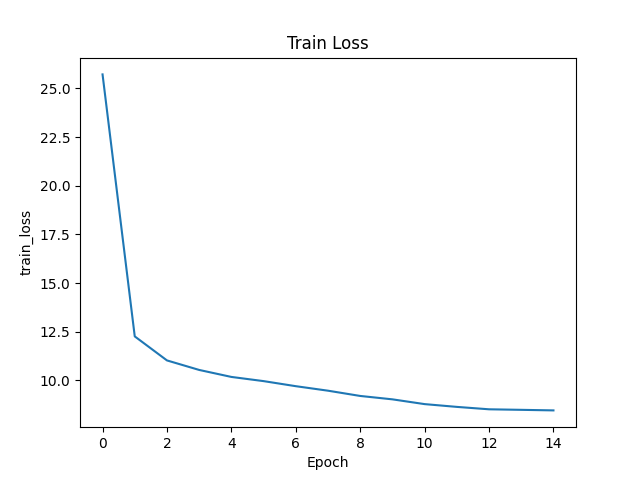
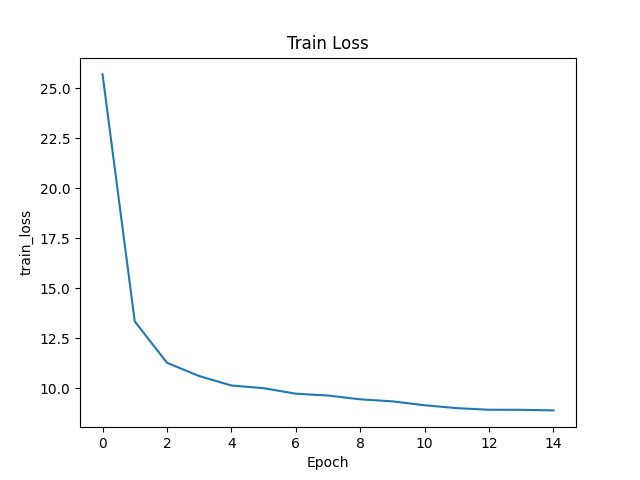
将非舌体区域置零 mlou 86%

diff --git a/predict.py b/predict.py
@@ -22,6 +22,7 @@ from skimage import transform, io, segmentation
 from segment.yolox import YOLOX
 import random
 import warnings
+import time
 
 # 永久性地忽略指定类型的警告
 warnings.filterwarnings("ignore", category=UserWarning)
@@ -32,7 +33,8 @@ checkpoint = './logs/best.pth'  # 使用训练好的模型
 # checkpoint = './pretrained_model/sam.pth'  # 使用预训练模型
 device = 'cuda:0'
 path_out='./data/test_out/'
-segment=YOLOX()
+# segment=YOLOX()  # 推理阶段不使用YOLOX，注释掉以释放GPU显存
+ENCODER_BATCH_SIZE = 8  # image_encoder 批量推理的 batch size，显存不够就改小
 ##############################################################################################################
 def get_bbox_from_mask(mask):
     '''Returns a bounding box from a mask'''    
@@ -64,75 +66,112 @@ best_iou=0
 test_names = sorted(os.listdir(ts_img_path))
 
 sam_model = sam_model_registry[model_type](checkpoint=checkpoint).to(device)
-#################################
-# prune_threshold =0.005
-# for param in sam_model.image_encoder.parameters():    
-#     param.data[torch.abs(param.data) < prune_threshold] = 0
 sam_model.eval()
-#################################
+sam_transform = ResizeLongestSide(sam_model.image_encoder.img_size)
+
 val_gts=[]
 val_preds=[]
-for f in os.listdir(ts_img_path):   
-    with torch.no_grad():             
-        # image_data = io.imread(join(ts_img_path, f))
-        # Use PIL to load and handle EXIF orientation
-        try:
-            pil_image = Image.open(join(ts_img_path, f))
-            pil_image = ImageOps.exif_transpose(pil_image)
-            image_data = np.array(pil_image)
-        except Exception as e:
-            print(f"Error loading image with PIL: {e}, falling back to skimage")
-            image_data = np.array(Image.open(join(ts_img_path, f)))
-    
-        print(image_data.shape)
 
-        image_data = transform.resize(image_data, (1024, 1024), order=3, preserve_range=True, mode='constant', anti_aliasing=True)  # type is np.ndarray dtype is float64
+t_start = time.time()
 
-        if image_data.shape[-1] > 3 and len(image_data.shape) == 3:
-            image_data = image_data[:, :, :3]
-        if len(image_data.shape) == 2:
-            image_data = np.repeat(image_data[:, :, None], 3, axis=-1)
-        
-        lower_bound, upper_bound = np.percentile(image_data, 0.5), np.percentile(image_data, 99.5)
-        image_data_pre = np.clip(image_data, lower_bound, upper_bound)
-        image_data_pre = (image_data_pre - np.min(image_data_pre)) / (np.max(image_data_pre) - np.min(image_data_pre)) * 255.0  # normalize this image to 0-255 range
-        image_data_pre[image_data == 0] = 0 # there the image_data_pre is np type
-        
-        image_data_pre = np.uint8(image_data_pre)
+# ============ 第一阶段：预处理所有图片 & 批量 image_encoder 推理 ============
+all_filenames = []
+all_image_data_pre = []   # 预处理后的 uint8 图
+all_input_tensors = []     # 送入 encoder 的 tensor
+all_tongue_masks = []      # tongue mask tensor
 
-        
-        # sam 模型的输入尺寸是1024x1024，所以我们需要将输入图像调整为这个尺寸。ResizeLongestSide会保持图像的宽高比，并将较长的一边调整为指定的尺寸，同时较短的一边会自动调整以保持比例。
-        # print("SAM模型的 img_size 是:", sam_model.image_encoder.img_size) 
-        sam_transform = ResizeLongestSide(sam_model.image_encoder.img_size)
-        resize_img = sam_transform.apply_image(image_data_pre)
-        resize_img_tensor = torch.as_tensor(resize_img.transpose(2, 0, 1)).to(device)
-        input_image = sam_model.preprocess(resize_img_tensor[None, :, :, :])        
-        ts_img_embedding = sam_model.image_encoder(input_image)      
+print(f"[阶段1] 预处理 {len(test_names)} 张图片...")
+for f in tqdm(test_names, desc="预处理"):
+    try:
+        pil_image = Image.open(join(ts_img_path, f))
+        pil_image = ImageOps.exif_transpose(pil_image)
+        image_data = np.array(pil_image)
+    except Exception as e:
+        print(f"Error loading image with PIL: {e}, falling back to skimage")
+        image_data = np.array(Image.open(join(ts_img_path, f)))
 
-        img = image_data_pre
-        # boxes = segment.get_prompt(img)  # 这里要关注一下sam 接受多少种不同的 prompt 我想用mask看能不能传进去
+    # 使用 cv2.resize 替代 skimage.transform.resize（快 100x+）
+    image_data = cv2.resize(image_data, (1024, 1024), interpolation=cv2.INTER_CUBIC).astype(np.float64)
+
+    if image_data.shape[-1] > 3 and len(image_data.shape) == 3:
+        image_data = image_data[:, :, :3]
+    if len(image_data.shape) == 2:
+        image_data = np.repeat(image_data[:, :, None], 3, axis=-1)
+
+    lower_bound, upper_bound = np.percentile(image_data, 0.5), np.percentile(image_data, 99.5)
+    image_data_pre = np.clip(image_data, lower_bound, upper_bound)
+    image_data_pre = (image_data_pre - np.min(image_data_pre)) / (np.max(image_data_pre) - np.min(image_data_pre)) * 255.0
+    image_data_pre[image_data == 0] = 0
+    image_data_pre = np.uint8(image_data_pre)
+
+    tongue_mask = np.array(ImageOps.exif_transpose(Image.open("../舌苔抑郁症/mask/" + os.path.splitext(f)[0] + ".png")))
+
+    tongue_mask = cv2.resize(tongue_mask, (1024, 1024), interpolation=cv2.INTER_NEAREST)
+
+    # 调试：验证 mask 的实际值分布（只打印第一张）
+    if f == test_names[0]:
+        print(f"[DEBUG] tongue_mask shape={tongue_mask.shape}, dtype={tongue_mask.dtype}")
+        print(f"[DEBUG] tongue_mask unique values: {np.unique(tongue_mask)}")
+        print(f"[DEBUG] tongue_mask==0 的像素数: {(tongue_mask==0).sum()}, 非零像素数: {(tongue_mask!=0).sum()}")
+
+    all_image_data_pre.append(image_data_pre.copy())  # 后续可视化用原始预处理图
+
+    image_data_pre[tongue_mask == 0] = [0, 0, 0] # 将非舌头区域像素值设为0，突出舌头部分
+
+    tongue_mask = (tongue_mask > 0).astype(np.float32)
+
+    resize_img = sam_transform.apply_image(image_data_pre)
+    resize_img_tensor = torch.as_tensor(resize_img.transpose(2, 0, 1))
+    input_image = sam_model.preprocess(resize_img_tensor[None, :, :, :].to(device)).cpu()  # 预处理后移回 CPU，避免 673 张占爆显存
+
+    tongue_mask_256 = cv2.resize(tongue_mask, (256, 256), interpolation=cv2.INTER_NEAREST)
+    mask_torch = torch.as_tensor(tongue_mask_256[None, None, :, :], dtype=torch.float)  # 存 CPU 上
+
+    all_filenames.append(f)
+    all_input_tensors.append(input_image)
+    all_tongue_masks.append(mask_torch)
+
+# 批量通过 image_encoder（最耗时的部分）  这一部分被AI修改了， 酌情保留
+all_embeddings = []
+print(f"[阶段2] 批量 image_encoder 推理 (batch_size={ENCODER_BATCH_SIZE}, FP16)...")
+with torch.no_grad(), torch.cuda.amp.autocast():  # FP16 半精度：速度翻倍 + 显存减半
+    for i in tqdm(range(0, len(all_input_tensors), ENCODER_BATCH_SIZE), desc="Encoder"):
+        batch = torch.cat(all_input_tensors[i:i+ENCODER_BATCH_SIZE], dim=0).to(device)
+        embeddings = sam_model.image_encoder(batch)
+        # 拆分回单张存储，放 CPU 上避免 673 个 embedding 撑爆显存
+        for j in range(embeddings.shape[0]):
+            all_embeddings.append(embeddings[j:j+1].float().cpu())  # 转回 FP32 存 CPU
+        del batch, embeddings
+        torch.cuda.empty_cache()
+
+# 释放 input_tensors，节省显存
+del all_input_tensors
+torch.cuda.empty_cache()
+
+# ============ 第二阶段：逐张 prompt_encoder + mask_decoder + 可视化保存 ============
+print(f"[阶段3] Decoder + 保存结果...")
+with torch.no_grad():
+    for idx in tqdm(range(len(all_filenames)), desc="Decoder+保存"):
+        f = all_filenames[idx]
+        ts_img_embedding = all_embeddings[idx]
+        mask_torch = all_tongue_masks[idx]
+        img = all_image_data_pre[idx]
+
         boxes = None
-        
-        tongue_mask = np.array(ImageOps.exif_transpose(Image.open("../舌苔抑郁症/coating_mask/" + os.path.splitext(f)[0] + ".png")))  
-
-        tongue_mask = (np.array(tongue_mask) > 0).astype(np.float32)  # 二值化  变成 0和1的形式，舌头部分为1，其他部分为0  主要是为了适配sam模型的输入要求，sam模型的prompt_encoder需要一个二值化的mask作为输入， 而且不宜是0 255 因为太大了
-        tongue_mask_256 = cv2.resize(tongue_mask, (256, 256), interpolation=cv2.INTER_NEAREST)
-        mask_torch = torch.as_tensor(tongue_mask_256[None, None, :, :], dtype=torch.float, device=device)
-
 
         if boxes is not None:
-            sam_trans = ResizeLongestSide(sam_model.image_encoder.img_size)                   
-            box = sam_trans.apply_boxes(boxes, (1024,1024))                                 # sam_trans会自动调整box的坐标以适应sam模型的输入尺寸               
-            box_torch = torch.as_tensor(box, dtype=torch.float, device=device)            
-        else:            
-            box_torch = None     
+            sam_trans = ResizeLongestSide(sam_model.image_encoder.img_size)
+            box = sam_trans.apply_boxes(boxes, (1024,1024))
+            box_torch = torch.as_tensor(box, dtype=torch.float, device=device)
+        else:
+            box_torch = None
 
         sparse_embeddings, dense_embeddings = sam_model.prompt_encoder(
             points=None,
-            boxes=box_torch, # box_torch是None
-            masks=mask_torch,
+            boxes=box_torch,
+            masks=mask_torch.to(device),
         )
-        
+
         # 使用Mask_Decoder生成分割结果
         medsam_seg_prob, _ = sam_model.mask_decoder(
             image_embeddings=ts_img_embedding.to(device),
@@ -140,31 +179,33 @@ for f in os.listdir(ts_img_path):
             sparse_prompt_embeddings=sparse_embeddings,
             dense_prompt_embeddings=dense_embeddings,
             multimask_output=False,
-        )                        
-        medsam_seg_prob =medsam_seg_prob.cpu().detach().numpy().squeeze()        
+        )
+        medsam_seg_prob = medsam_seg_prob.cpu().detach().numpy().squeeze()
         medsam_seg = (medsam_seg_prob > 0).astype(np.uint8)  # logit > 0 等价于 sigmoid(logit) > 0.5
-        
-        medsam_seg=cv2.resize(medsam_seg,(1024,1024),interpolation=cv2.INTER_NEAREST)       
-        
+
+        medsam_seg = cv2.resize(medsam_seg, (1024, 1024), interpolation=cv2.INTER_NEAREST)
+
         ####################################
         medsam_seg[medsam_seg > 0] = 255
-        medsam_img = Image.fromarray(medsam_seg) # 所有输出的图片的位数都是8位的png图像
+        medsam_img = Image.fromarray(medsam_seg)
         medsam_img.save(os.path.join(path_out, os.path.splitext(f)[0] + '.png'))
 
         ####################################
         # 后面这一部分代码就是为了在原图上叠加边界框和分割结果的可视化，输出到test_out文件夹中
         pred = cv2.Canny(medsam_seg, 100, 200)
-        
 
-        for i in range(pred.shape[0]):
-            for j in range(pred.shape[1]):
-                if pred[i, j] != 0:
-                    img[max(i - 1, 0):min(i + 2, 1024), max(j - 1, 0):min(j + 2, 1024), :] = [0, 0, 255]
+        # 向量化边缘绘制（替代逐像素 Python for 循环，速度提升 100x+）
+        edge_ys, edge_xs = np.where(pred != 0)
+        for dy in range(-1, 2):
+            for dx in range(-1, 2):
+                ys = np.clip(edge_ys + dy, 0, 1023)
+                xs = np.clip(edge_xs + dx, 0, 1023)
+                img[ys, xs, :] = [0, 0, 255]
 
         image1 = Image.fromarray(medsam_seg)
         image2 = Image.fromarray(img)
 
-        image1 = image1.resize(image2.size).convert("RGBA")
+        image1 = image1.convert("RGBA")
         image2 = image2.convert("RGBA")
         data1 = image1.getdata()
 
@@ -172,8 +213,11 @@ for f in os.listdir(ts_img_path):
         new_data = [(0, 0, 128, 96) if pixel1[0] != 0 else (0, 0, 0, 0) for pixel1 in data1]
 
         new_image.putdata(new_data)
-        if boxes is not None:              
+        if boxes is not None:
             draw = ImageDraw.Draw(image2)
-            draw.rectangle([boxes[0],boxes[1],boxes[2],boxes[3]],fill=None, outline=(0, 255, 0), width=5)  # 用红色绘制方框的边框，线宽为2
+            draw.rectangle([boxes[0],boxes[1],boxes[2],boxes[3]],fill=None, outline=(0, 255, 0), width=5)
         image2.paste(new_image, (0, 0), mask=new_image)
         image2.save(os.path.join(path_out, "vis_" + os.path.splitext(f)[0] + '.png'))
+
+t_end = time.time()
+print(f"\n总耗时: {t_end - t_start:.1f}s, 平均: {(t_end - t_start) / max(len(all_filenames), 1):.2f}s/张")

diff --git a/pre_tongue_fast.py b/pre_tongue_fast.py
@@ -19,7 +19,8 @@ parser.add_argument('-o', '--npz_path', type=str, required=True, help='path to s
 parser.add_argument('--data_name', type=str, default='tongue', help='dataset name')
 parser.add_argument('--image_size', type=int, default=1024, help='image size')
 parser.add_argument('--model_type', type=str, default='vit_b', help='model type')
-parser.add_argument('--checkpoint', type=str, default='./pretrained_model/sam.pth', help='checkpoint')
+# parser.add_argument('--checkpoint', type=str, default='./pretrained_model/sam.pth', help='checkpoint')
+parser.add_argument('--checkpoint', type=str, default='./log/best.pth', help='checkpoint')
 parser.add_argument('--device', type=str, default='cuda:0', help='device')
 parser.add_argument('--batch_size', type=int, default=4, help='batch size for SAM encoder')
 parser.add_argument('--no_augment', action='store_true', help='disable data augmentation for faster processing')
@@ -112,14 +113,12 @@ def process_single_image(img_path, gt_path, image_name, gt_name, image_size, no_
         #  TODO add real world shadow augmentation
         image_data, gt_data = simple_preprocess(image_data, gt_data, image_size)
 
-        if np.random.rand() < 0.5:
-            image_data = add_random_shadow(image_data)
+        image_data = add_random_shadow(image_data)
 
 
     # 现在tonguemask 的大小一样了
     tonguemask = (gt_data <= 128).astype(np.uint8)  # 二值化，舌头部分为1，其他部分为0
     
-
 
     # Binarize gt   128 是舌苔 255 是背景 0 是舌体 但是我们只需要二值化的结果，所以把128的部分设置为1，其他部分设置为0
     gt_data = (gt_data == 128).astype(np.uint8) # fixed this serious bug
@@ -139,6 +138,8 @@ def process_single_image(img_path, gt_path, image_name, gt_name, image_size, no_
         image_data = (image_data - image_data.min()) / (image_data.max() - image_data.min()) * 255.0
     image_data = np.uint8(image_data)
     
+    image_data[tonguemask == 0] = [0, 0, 0]  # 将非舌头区域像素值设为0，突出舌头部分  所以训练的时候就只训练了舌头部分，推理的时候自然也只推理舌头部分
+
     # Get bounding box from gt
     y_indices, x_indices = np.where(gt_data > 0)
     if len(x_indices) > 0:

diff --git a/train.py b/train.py
@@ -82,7 +82,7 @@ class NpzDataset(Dataset):
         self.imgs=self.npz_data['imgs']
         self.model=segment        
         self.point_num=point_num
-        self.tonguemask = self.npz_data['tonguemasks']
+        self.tonguemasks = self.npz_data['tonguemasks']
     def __len__(self):
         return self.ori_gts.shape[0]
 
@@ -93,7 +93,7 @@ class NpzDataset(Dataset):
         H, W = gt2D.shape         
     
            
-        tongue_mask_256 = cv2.resize(self.tonguemask[index].astype(np.float32), (256, 256), interpolation=cv2.INTER_NEAREST)
+        tongue_mask_256 = cv2.resize(self.tonguemasks[index].astype(np.float32), (256, 256), interpolation=cv2.INTER_NEAREST)
         return torch.tensor(img_embed).float(), torch.tensor(gt2D[None, :,:]).long(), torch.tensor(tongue_mask_256[None,:,:]).float()
 #####################################################Begin############################################################################
 Min_lr=Init_lr*0.01
